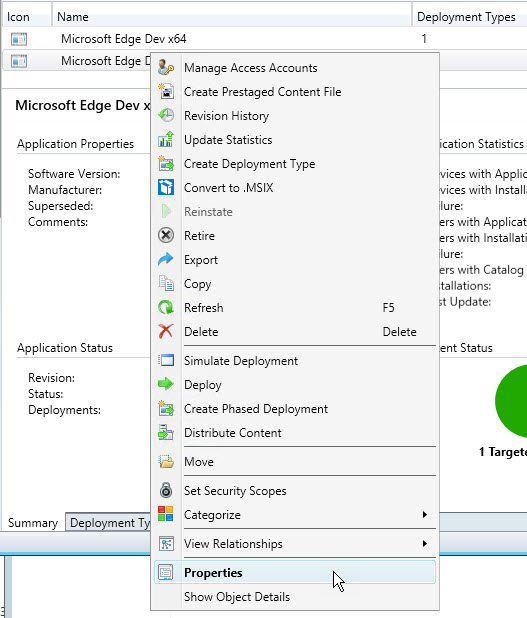
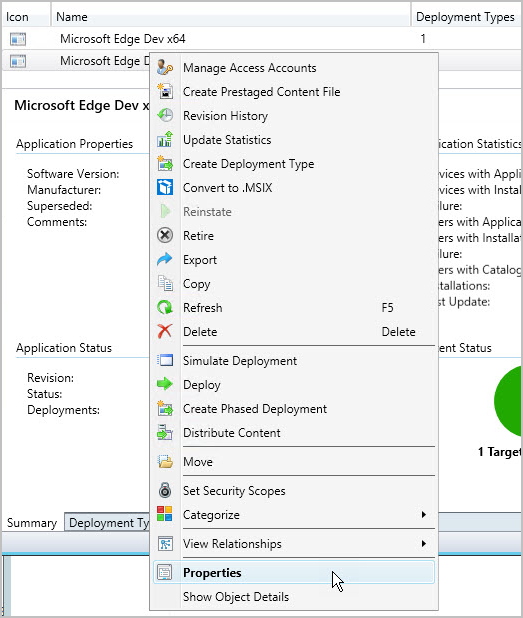
updates to automated deployments with cfg mgr
rewording, adj to images, add borders

diff --git a/edgeenterprise/deploy-edge-with-configuration-manager.md b/edgeenterprise/deploy-edge-with-configuration-manager.md
@@ -9,7 +9,7 @@ ms.topic: procedural
 ms.prod: microsoft-edge
 localization_priority: medium
 ms.collection: M365-modern-desktop
-description: "Learn how to deploy Microsoft Edge  with System Center Configuration Manager (SCCM)."
+description: "Learn how to deploy Microsoft Edge with System Center Configuration Manager (SCCM)."
 ---
 
 # Deploy Microsoft Edge using System Center Configuration Manager
@@ -19,13 +19,17 @@ This article shows you how to automate a Microsoft Edge deployment by using Syst
 >[!NOTE]
 >This article applies to Microsoft Edge version 77 or later.
 
-## Before you begin  
+## Before you begin
 
-Make sure that you've reviewed the information in [Introduction to application management](https://docs.microsoft.com/en-us/sccm/apps/understand/introduction-to-application-management) so that you have prepared your site to install applications and you understand the terminology that's used in this topic.  
+Review the information in [Introduction to application management in Configuration Manager](https://docs.microsoft.com/en-us/sccm/apps/understand/introduction-to-application-management). This application management article will help you understand the terminology used in this article and is a guide to preparing your site to install applications.
 
-Also, make sure that the Microsoft Edge installation files **MicrosoftEdgeDevEnterpriseX64.msi** and/or **MicrosoftEdgeDevEnterpriseX86.msi** are in an accessible location on your network. You can download the Microsoft Edge Enterprise installation files from the [Microsoft Edge Enterprise landing page](https://aka.ms/EdgeEnterprise).
+Download the Microsoft Edge Enterprise installation files (**MicrosoftEdgeDevEnterpriseX64.msi** and/or **MicrosoftEdgeDevEnterpriseX86.msi**) from the [Microsoft Edge Enterprise landing page](https://aka.ms/EdgeEnterprise).
 
-## Create the application  
+Make sure you store the Microsoft Edge installation files in an accessible network location.
+
+## Create the application
+
+You'll create the application using a Configuration Manager wizard.
 
 ### Start the Create Application Wizard and create the application  
 
@@ -35,60 +39,61 @@ Also, make sure that the Microsoft Edge installation files **MicrosoftEdgeDevEnt
 
     ![Create application](./media/edge-ent-deployment-sccm/edge-ent-create-app-1.png)
 
-3. On the **General** page of the **Create Application Wizard**, choose **Automatically detect information about this application from installation files**. This pre-populates some of the information in the wizard with information that's extracted from the installation .msi file. Then specify the following information:  
+3. On the **General** page of the **Create Application Wizard**, choose **Automatically detect information about this application from installation files**. This pre-populates some of the information in the wizard with information that's extracted from the installation .msi file. Provide the following information:  
 
    - **Type**: Choose **Windows Installer (\*.msi file)**.  
 
    - **Location**: Type the location (or click **Browse** to select the location) of the installation file **MicrosoftEdgeDevEnterpriseX64.msi** or **MicrosoftEdgeDevEnterpriseX86.msi**. Note that the location must be specified in the form *\\\Server\Share\File* for Configuration Manager to locate the installation files.  
 
-   You'll end up with something that looks like the following screenshot:  
+   Your **Specify settings for this application** page will look like the following example:  
 
-    ![Specify settings](./media/edge-ent-deployment-sccm/edge-ent-create-app-2.png)
+    ![Specify settings for this application](./media/edge-ent-deployment-sccm/edge-ent-create-app-2.png)
 
-4. Click **Next**. On the **Import Information** page, you'll see some information about the app and any associated files that were imported to Configuration Manager. Once you are done, click **Next** again.  
+4. Click **Next**. Under **Details** on the **Imported Information** page, you'll see information about the application and any associated files that were imported. Click **Next** to continue with the wizard.  
 
     ![View imported information](./media/edge-ent-deployment-sccm/edge-ent-create-app-3.png)
 
-5. On the **General Information** page, you can supply further information about the application to help you sort and locate it in the Configuration Manager console.  
+5. On the **General Information** page, you can add more information about the application. For example, Software version, Administrator comments, and Publisher. You can use this information to to help you sort and find the application in the Configuration Manager console.
 
-    Additionally, the **Installation program** field lets you specify the full command line that will be used to install the application on PCs. You can edit this to add your own properties (for example **/q** for an unattended installation).
+   You can also use the **Installation program** field to specify the full command line that will be used to install the application on PCs. You can edit this to add your own properties (for example, **/q** for an unattended installation).
 
-   > [!TIP]  
-   > Some of the fields on this page of the wizard will be filled in automatically when you import the application installation file.
+   The following screenshot shows an example where the **Specify information about this application** fields are used.
 
-    You'll end up with a screen that looks similar to the following screenshot:
+   ![Specify application metadata](./media/edge-ent-deployment-sccm/edge-ent-create-app-5.png)
 
-    ![Application metadata](./media/edge-ent-deployment-sccm/edge-ent-create-app-4.png)
+6. Click **Next**.
+7. On the **Summary** page, you can confirm your application settings under **Details** and then finish using the wizard. Click **Next**.  
 
-    You can add information about the application like so:
+    ![Details of application settings](./media/edge-ent-deployment-sccm/edge-ent-create-app-6.png)
 
-    ![Specify application metadata](./media/edge-ent-deployment-sccm/edge-ent-create-app-5.png)
-
-6. Click **Next**. On the Summary page, you can confirm your application settings and then complete the wizard.  
-
-    ![Confirm dialog](./media/edge-ent-deployment-sccm/edge-ent-create-app-6.png)
-
-7. On the **Completion** page, click **Close**.
+8. On the **Completion** page, click **Close**.
 
     ![Success dialog](./media/edge-ent-deployment-sccm/edge-ent-create-app-7.png)
 
-You've finished creating the app. To find it, in the **Software Library** workspace, expand **Application Management**, and then click **Applications**. For this example, you'll see:  
+You've finished creating the application. Use these steps to find it:
+
+- select the **Software Library** workspace
+- expand **Application Management**
+- click **Applications**.
+
+The following screenshot shows the example used for this article.  
 
 ![Applications](./media/edge-ent-deployment-sccm/edge-ent-create-app-8.png)
 
 ## Examine the properties of the application and its deployment type  
 
-Now that you've created an application, you can refine the application settings if you need to. To look at the application properties, select the app, and then, in the **Home** tab in the **Properties** group, click **Properties**.  
+Now that you've created an application, you can refine the application settings if you need to. To look at the application properties, select the application, and then, in the **Home** tab in the **Properties** group, click **Properties**.  
 
    ![Configure the application properties](./media/edge-ent-deployment-sccm/edge-ent-create-app-req-1.png)
 
- In the **<application name\> Application Properties** dialog box, you'll see many items that you can configure to refine the behavior of the application. For details about all the settings you can configure, see [Create applications](https://docs.microsoft.com/en-us/sccm/apps/deploy-use/create-applications). For the purposes of this example, you'll just be changing some properties of the application's deployment type.  
+ In the **<application name\> Application Properties** dialog box, you'll see many items that you can configure to refine the behavior of the application. For details about all the settings you can configure, see [Create applications](https://docs.microsoft.com/sccm/apps/deploy-use/create-applications). For the purposes of this example, you'll just be changing some properties of the application's deployment type.  
 
  Click the **Deployment Types** tab > **application name** deployment type > **Edit**.
 
    ![Edit deployment type](./media/edge-ent-deployment-sccm/edge-ent-create-app-req-2.png)
 
-## Add a requirement to the deployment type  
+## Add a requirement to the deployment type
+
  Requirements specify conditions that must be met before an application is installed on a device. You can choose from built-in requirements or you can create your own. For example, you can add a requirement that the application will only be installed on PCs that are running Windows 10 **x86** or **x64**, depending on the installation file's target processor architecture. In this example, you will specify Windows 10 **x86**.
 
 1. From the deployment type properties page you just opened, click the **Requirements** tab.
@@ -119,8 +124,8 @@ Now that you've created an application, you can refine the application settings 
 
 Next, to deploy the application to PCs, make sure that the application content is copied to a distribution point. PCs access the distribution point to install the application.  
 
-> [!TIP]  
-> To find out more about distribution points and content management in Configuration Manager, see [Deploy and manage content for System Center Configuration Manager](https://docs.microsoft.com/en-us/sccm/core/servers/deploy/configure/deploy-and-manage-content).  
+>[!TIP]
+>To find out more about distribution points and content management in Configuration Manager, see [Deploy and manage content for System Center Configuration Manager](https://docs.microsoft.com/sccm/core/servers/deploy/configure/deploy-and-manage-content).  
 
 1. In the Configuration Manager console, click **Software Library**.  
 
@@ -142,8 +147,8 @@ You can check that the application content was copied successfully to the distri
 
 Next, deploy the application to a device collection in your hierarchy. In this example, you deploy the application to the **All Systems** device collection.  
 
-> [!TIP]  
-> Remember that only Windows 10 computers of the specified processor architecture will install the application because of the requirements that you selected earlier.  
+>[!TIP]
+>Remember that only Windows 10 computers of the specified processor architecture will install the application because of the requirements that you selected earlier.  
 
 1. In the Configuration Manager console, click **Software Library** > **Application Management** > **Applications**.
 
@@ -163,8 +168,8 @@ Next, deploy the application to a device collection in your hierarchy. In this e
 
     ![Configure deployment settings](./media/edge-ent-deployment-sccm/edge-ent-deploy-app-8.png)
 
-    > [!TIP]  
-    > By setting the deployment purpose to **Required**, you make sure that the application is installed on PCs that meet the requirements that you set. If you set this value to **Available**, then users can install the application on demand from Software Center.  
+    >[!TIP]
+    >By setting the deployment purpose to **Required**, you make sure that the application is installed on PCs that meet the requirements that you set. If you set this value to **Available**, then users can install the application on demand from Software Center.  
 
 6. On the **Scheduling** page, you can configure when the application will be installed. For this example, select **As soon as possible after the available time**.
 
@@ -182,7 +187,8 @@ Next, deploy the application to a device collection in your hierarchy. In this e
 
 Use the information in the following **Monitor the application** section to see the status of your application deployment.  
 
-## Monitor the application  
+## Monitor the application
+
  In this section, you'll take a quick look at the deployment status of the application that you just deployed.  
 
 ### To review the deployment status  
@@ -207,8 +213,8 @@ Use the information in the following **Monitor the application** section to see 
 
     - **Unknown**: Configuration Manager was unable to report the status of the deployment. Check back again later.  
 
-> [!TIP]  
-> There are a few ways you can monitor application deployments. For full details, see [Monitor applications](https://docs.microsoft.com/en-us/sccm/apps/deploy-use/monitor-applications-from-the-console).  
+    >[!TIP]
+    >There are several ways you can monitor application deployments. For more information, see [Monitor applications](https://docs.microsoft.com/sccm/apps/deploy-use/monitor-applications-from-the-console).  
 
 ## End-user experience  
 
